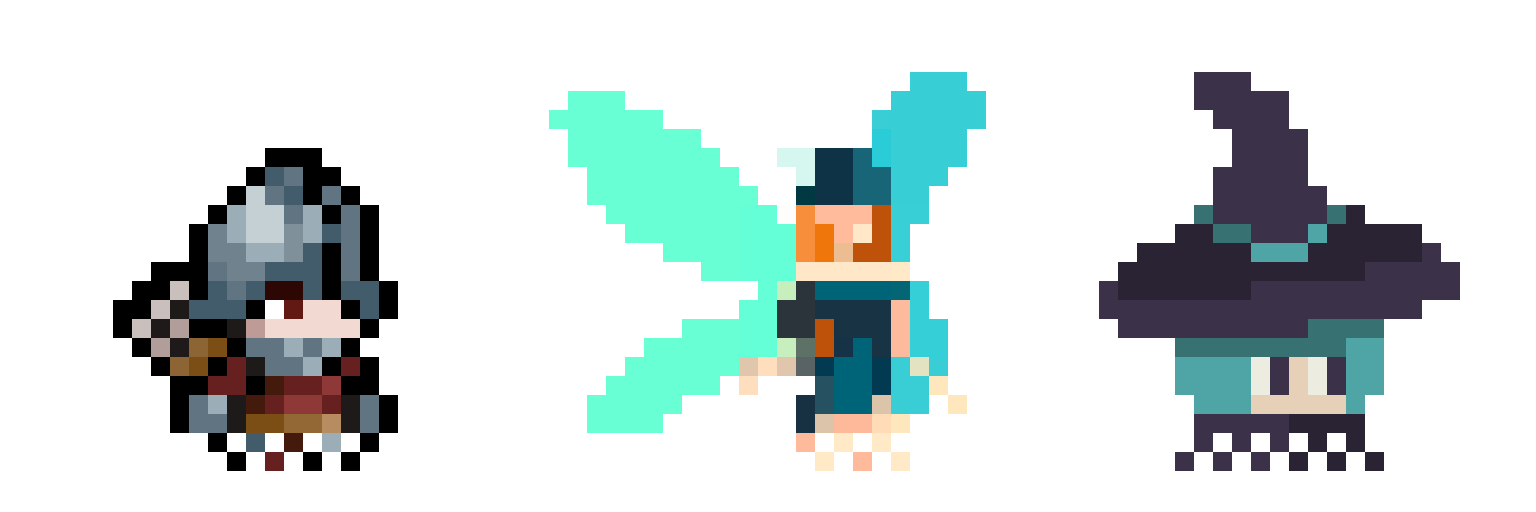
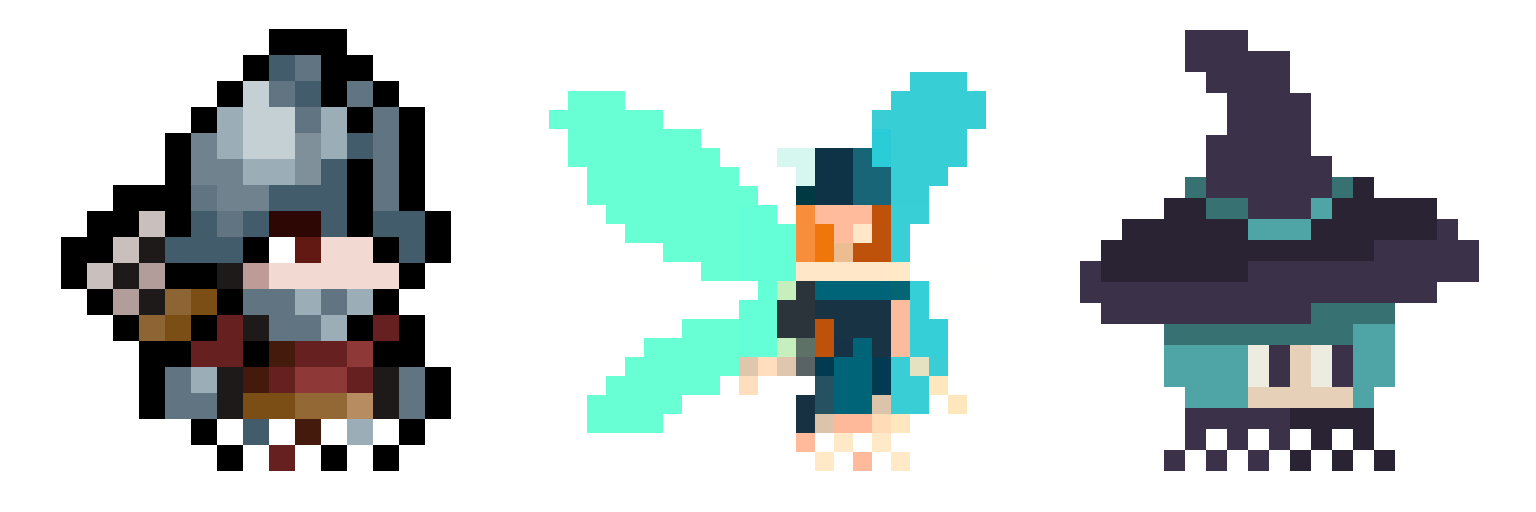
C6 : un facteur d agrandissement par apprenti, meme cadre que les bustes peints
Le facteur commun (x19, borne par les ailes de la fee) laissait l ecuyer dans
56 % de sa case, minuscule a cote du mage. Chaque buste prend maintenant le plus
grand facteur entier qui le fait tenir dans la marge des bustes peints :
ecuyer x26 (390x442), fee x19 (437x399), apprentie d azur x21 (399x441). Le
controle des blocs uniformes reste, avec le facteur propre a chaque buste.
Commentaires et docs (histoire §11, assets_index §6.6) suivent. Aucun test ne
supposait d echelle commune. Captures relues, harnais 7/7 vert.

Changed region(s): [[0.0312, 0.0312, 0.3125, 0.9375], [0.6875, 0.0312, 0.9688, 0.9375]]

diff --git a/tools/assets/make_apprentice_portraits.py b/tools/assets/make_apprentice_portraits.py
@@ -33,13 +33,16 @@ TROIS REGLES DE PIXEL ART
    sprite devient un carre plein. Le LANCZOS de `tools/story/build_cast.py`
    convient a une peinture, il transforme un sprite en bouillie. Verifie en fin
    de script (assertion `_blocs_nets`) : une seule valeur par bloc.
-2. UN facteur pour les trois apprentis : un pixel de sprite fait le meme carre a
-   l ecran quel que soit l apprenti. Le facteur est le plus grand qui fait tenir
-   le plus large des trois bustes dans la marge des bustes peints (88 % de la
-   case). L ecuyer, plus petit en jeu, reste plus petit ici : c est le sien.
+2. UN FACTEUR PAR BUSTE : le plus grand entier qui fait tenir CE buste dans la
+   marge des bustes peints (88 % de la case). Une premiere version prenait un
+   facteur commun aux trois (19, borne par les ailes de la fee) : l ecuyer, le
+   plus petit sprite (15 x 17), tenait alors dans 56 % de sa case et paraissait
+   minuscule a cote du buste du mage. Au telephone c est le CADRAGE qui se voit ;
+   la difference de taille des pixels entre deux apprentis, jamais a l ecran
+   ensemble, se voit a peine (choix de l orchestrateur sur maquette, C6).
 3. Le bas du buste se dissout en TRAMAGE ordonne (un pixel sur deux, puis un sur
    quatre), pas en fondu d alpha. Le fondu des bustes peints, applique a des
-   blocs de 19 px, donnait des bandes translucides qui se lisaient comme une
+   blocs de 19 a 26 px, donnait des bandes translucides qui se lisaient comme une
    image mal effacee ; le tramage est la facon pixel art de faire la meme chose
    et garde chaque bloc net.
 
@@ -47,9 +50,10 @@ CADRAGE
 -------
 Les bustes peints sont cales en haut a 4 % et mis a l echelle dans 88 % de la
 case : leur bas tombe vers 92 % de la case, juste au-dessus de la boite de
-texte. Les apprentis, plus petits que leur case, sont POSES sur cette ligne de
-base plutot que cales en haut : cales en haut, l ecuyer flottait au milieu de
-la boite, le defaut meme que la planche du casting devait empecher.
+texte. Les apprentis sont POSES sur cette ligne de base plutot que cales en
+haut : un buste plus large que haut (la fee) est moins haut que sa case, et cale
+en haut il flotterait au milieu de la boite, le defaut meme que la planche du
+casting devait empecher.
 """
 import os
 import re
@@ -171,14 +175,16 @@ def main() -> None:
         b, feuille = _buste(anim_key, case, bas)
         bustes.append((cle, b, case, feuille))
     util = cell * UTIL
-    k = int(min(util / max(b.width, b.height) for _c, b, _i, _f in bustes))
-    if k < 2:
-        raise SystemExit("facteur %d : un buste est trop grand pour la case" % k)
     base = int(cell * (HAUT + UTIL))
 
     planche = Image.new("RGBA", (cell * len(bustes), cell), (0, 0, 0, 0))
-    print("cle,ligne,colonne,source,case,buste_px,facteur")
+    print("cle,ligne,colonne,source,case,buste_px,facteur,portrait_px")
     for col, (cle, b, case, feuille) in enumerate(bustes):
+        # Facteur PROPRE a ce buste (regle 2) : le plus grand entier qui le fait
+        # tenir dans la marge des bustes peints, sur son plus grand cote.
+        k = int(util / max(b.width, b.height))
+        if k < 2:
+            raise SystemExit("%s : facteur %d, buste trop grand pour la case" % (cle, k))
         grand = _tramer(b).resize((b.width * k, b.height * k), Image.NEAREST)
         x = col * cell + (cell - grand.width) // 2
         y = base - grand.height
@@ -187,7 +193,8 @@ def main() -> None:
         planche.alpha_composite(grand, (x, y))
         if not _blocs_nets(planche, x, y, grand.width, grand.height, k):
             raise SystemExit("%s : blocs non uniformes, le portrait serait flou" % cle)
-        print("%s,1,%d,%s,%d,%dx%d,%d" % (cle, col + 1, feuille, case, b.width, b.height, k))
+        print("%s,1,%d,%s,%d,%dx%d,%d,%dx%d" % (cle, col + 1, feuille, case, b.width,
+                                                b.height, k, grand.width, grand.height))
 
     planche.save(OUT)
     print("-> %s %s" % (os.path.relpath(OUT, ROOT), planche.size))

diff --git a/docs/assets_index.md b/docs/assets_index.md
@@ -515,7 +515,7 @@ sur ce poste (`fetch_craftpix.py` répond « PAS CONNECTÉ »).
 | Teintes de l'Apprentie d'azur | `bluewitch_{ember,frost,moss}_{idle,walk,attack}` | remappe 7 couleurs de `bluewitch_*` | 9e0, commercial |
 | L'écuyer + 2 teintes | `soldier_*` (cases 56×44), `soldier_{azure,royal}_*` | Tiny RPG Character Pack 01, `Soldier` (arc = incantation) | Zerie, commercial |
 | La fée + 2 couleurs | `fairy_idle`, `fairy_{sun,moss}_idle` | `Fairy.zip` (les 3 couleurs de l'auteur) | itch, commercial |
-| Portraits d'histoire des 3 apprentis (vague 10, C6) | `assets/portraits/apprentice_cast.png` (3 cases de 512) | **recadrés dans les feuilles ci-dessus** (`soldier_idle` case 0, `fairy_idle` case 7, `bluewitch_idle` case 3) par `tools/assets/make_apprentice_portraits.py`, plus proche voisin ×19 | ceux de leur sprite : Zerie, auteur Fairy (à confirmer), 9e0 |
+| Portraits d'histoire des 3 apprentis (vague 10, C6) | `assets/portraits/apprentice_cast.png` (3 cases de 512) | **recadrés dans les feuilles ci-dessus** (`soldier_idle` case 0, `fairy_idle` case 7, `bluewitch_idle` case 3) par `tools/assets/make_apprentice_portraits.py`, plus proche voisin ×26 / ×19 / ×21 (un facteur par buste, même cadre que les bustes peints) | ceux de leur sprite : Zerie, auteur Fairy (à confirmer), 9e0 |
 | Tours Red/Black/Yellow/Purple | `assets/terrain/tower_{red,black,yellow,purple}.png` | Tiny Swords `Buildings/*/Tower.png` | Pixel Frog |
 | L'arbre-nid | `tower_tree.png` (8 cases de 192) | Tiny Swords `Trees/Tree3` | Pixel Frog |
 | Le monastère | `tower_monastery.png` | Tiny Swords `Blue Buildings/Monastery` | Pixel Frog |

diff --git a/docs/histoire.md b/docs/histoire.md
@@ -745,7 +745,8 @@ d abord sans portrait, comme « Un mort ». Leur buste est découpé dans la feu
 animée qu ils portent EN COMBAT : le joueur reconnaît dans la scène le personnage
 qu il va faire jouer. Planche `assets/portraits/apprentice_cast.png`, fabriquée par
 `tools/assets/make_apprentice_portraits.py` (pixel art agrandi au plus proche
-voisin, même facteur entier pour les trois, posé sur la ligne de base des bustes
+voisin, d un facteur entier propre à chacun — ×26, ×19, ×21 — pour remplir le même
+cadre que les bustes peints, posé sur la ligne de base des bustes
 peints, bas dissous en tramage) ; la clé de casting est le `texture_name` de leur
 fiche de compte.
 
